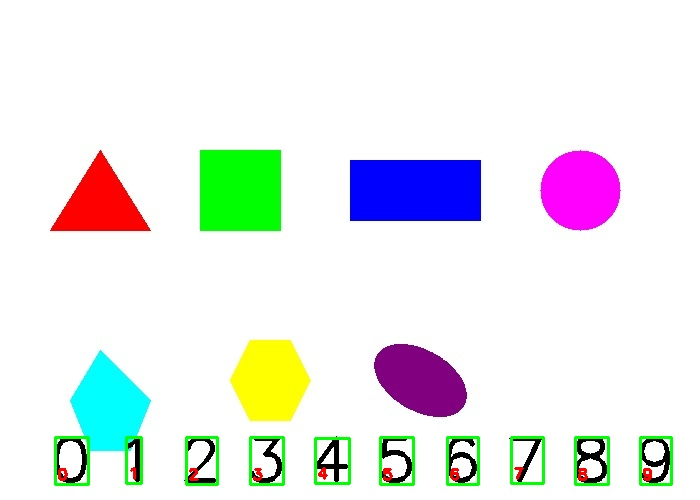
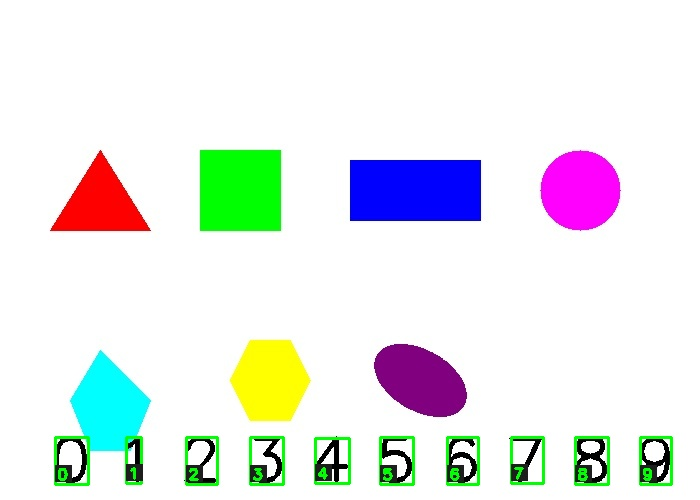
polish: 数字识别标签增加深色背景、对比图标题边界检查、Trackbar增强提示、README新增git说明和置信度解释

diff --git a/src/task3_shape_digit_recognition/digit_recognition.py b/src/task3_shape_digit_recognition/digit_recognition.py
@@ -210,9 +210,21 @@ def detect_digits(image, min_area=80, max_area=2000, digit_region_ratio=0.6):
 
         # 绘制识别结果（使用原图坐标）
         cv2.rectangle(result, (x, original_y), (x+bw, original_y+bh), (0, 255, 0), 2)
-        # 标签放在数字框内部底部，避免与上方形状重叠
-        cv2.putText(result, f"{digit}", (x + 2, original_y + bh - 5),
-                    cv2.FONT_HERSHEY_SIMPLEX, 0.5, (0, 0, 255), 2)
+        # 标签放在数字框内部底部，增加深色背景条确保清晰
+        label = f"{digit}"
+        label_font = cv2.FONT_HERSHEY_SIMPLEX
+        label_size, _ = cv2.getTextSize(label, label_font, 0.5, 2)
+        lw, lh = label_size
+        label_x = x + 2
+        label_y = original_y + bh - 5
+        h_img, w_img = result.shape[:2]
+        bg_x1 = max(0, label_x - 2)
+        bg_y1 = max(0, label_y - lh - 2)
+        bg_x2 = min(w_img, label_x + lw + 2)
+        bg_y2 = min(h_img, label_y + 2)
+        cv2.rectangle(result, (bg_x1, bg_y1), (bg_x2, bg_y2), (30, 30, 30), -1)
+        cv2.putText(result, label, (label_x, label_y),
+                    label_font, 0.5, (0, 255, 0), 2)
 
     # 按x坐标排序，模拟从左到右的阅读顺序
     detections.sort(key=lambda d: d['bbox'][0])

diff --git a/src/task4_advanced/trackbar_tool.py b/src/task4_advanced/trackbar_tool.py
@@ -124,7 +124,12 @@ class TrackbarTool:
 
     def run(self):
         """启动调参界面主循环"""
-        print("按 'q' 退出，按 's' 保存当前参数和结果")
+        print("=" * 50)
+        print("OpenCV HSV 交互调参工具")
+        print("窗口标题:", self.WINDOW_NAME)
+        print("按 'q' 退出")
+        print("按 's' 保存当前参数和结果到 test_images/results/task4/trackbar/")
+        print("=" * 50)
         while True:
             params = self.get_trackbar_values()
             combined, mask = self.process(params)

diff --git a/src/utils.py b/src/utils.py
@@ -92,8 +92,8 @@ def create_comparison_image(images, titles, cols=2):
         bar_h = th + 16
         bar_x1 = col * target_w
         bar_y1 = row * target_h
-        bar_x2 = bar_x1 + tw + 20
-        bar_y2 = bar_y1 + bar_h
+        bar_x2 = min(canvas.shape[1], bar_x1 + tw + 20)
+        bar_y2 = min(canvas.shape[0], bar_y1 + bar_h)
         cv2.rectangle(canvas, (bar_x1, bar_y1), (bar_x2, bar_y2), (40, 40, 40), -1)
         # 添加标题（黄色字体+黑色描边）
         title_pos = (bar_x1 + 10, bar_y1 + th + 5)

diff --git a/README.md b/README.md
@@ -322,6 +322,15 @@ python -m src.task4_advanced.trackbar_tool
 - **可调参数**：H上下限、S上下限、V上下限、模糊核大小、形态学核大小、最小面积
 - **保存方式**：按 `s` 键保存当前参数配置和结果图
 
+### 6.3 数字识别置信度说明
+
+在本次测试中，10个数字全部被正确识别（准确率100%）。部分数字（如 `1`、`2`、`3`、`5`、`7`）的匹配得分相对较低，这是正常现象，原因如下：
+
+- **模板匹配特性**：`cv2.matchTemplate()` 对笔画结构简单的数字（如 `1`）区分度天然较低
+- **形近数字干扰**：`2`、`3`、`5` 在印刷体中轮廓有一定相似性，需要依赖Hu矩辅助区分
+- **综合评分机制**：即使单个得分不高，模板匹配（70%）+ Hu矩匹配（30%）的综合评分仍能正确排序
+- **最终准确率**：以最高综合分为识别结果，10个数字全部正确
+
 ---
 
 ## 七、参数调优建议
@@ -346,7 +355,30 @@ python -m src.task4_advanced.trackbar_tool
 
 ---
 
-## 九、作者信息
+## 九、Git 版本管理说明
+
+本项目使用 Git 进行代码版本管理，主要操作如下：
+
+```bash
+# 初始化仓库（已在本项目中完成）
+git init
+
+# 添加所有文件到暂存区
+git add -A
+
+# 提交修改
+git commit -m "提交说明"
+
+# 关联远程仓库
+git remote add origin https://github.com/gsuiaoll/LiWenfeng_Vision_Final_OpenCV.git
+
+# 推送到远程仓库
+git push -u origin master
+```
+
+---
+
+## 十、作者信息
 
 - 姓名：李文锋
 - 学校/团队：视觉算法组

diff --git a/test_images/results/task4/robustness_report.md b/test_images/results/task4/robustness_report.md
@@ -1,5 +1,5 @@
 # OpenCV 视觉算法鲁棒性测试报告
-**测试时间：** 2026-06-19 23:20:09
+**测试时间：** 2026-06-19 23:28:25
 
 ## 一、测试目标
 验证颜色阈值色块识别算法在不同光照强度和不同遮挡比例下的性能表现，统计识别准确率、漏检率，为参数调优提供依据。